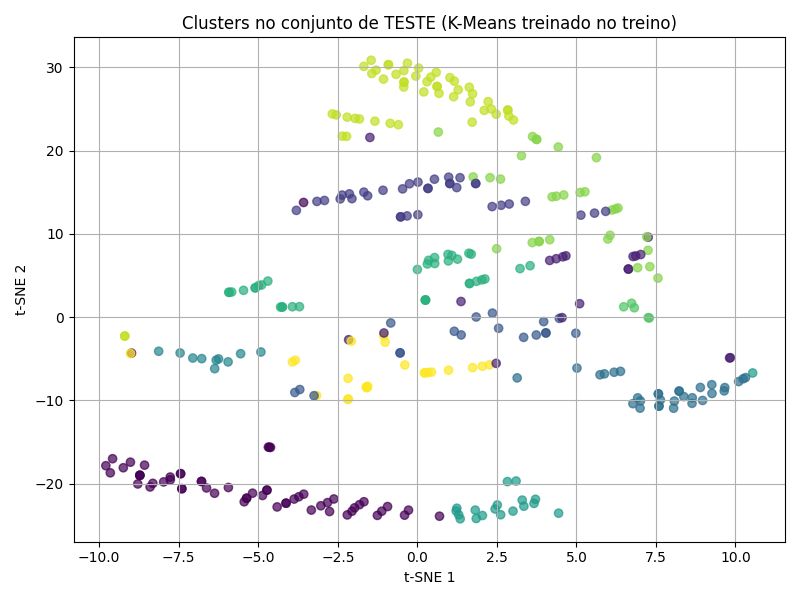
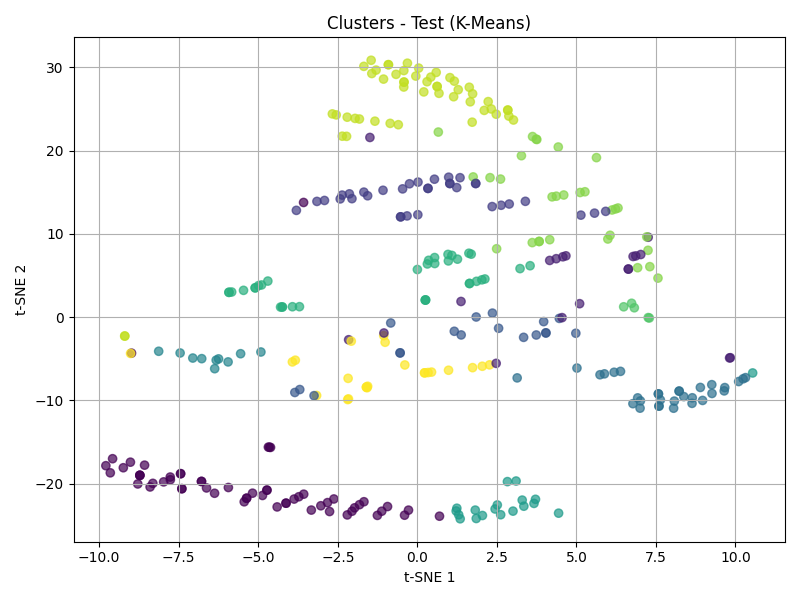
new analysis

Changed region(s): [[0.2188, 0.03, 0.8438, 0.06]]

diff --git a/Algorithms/K_means/k_means.py b/Algorithms/K_means/k_means.py
@@ -52,10 +52,10 @@ def k_means():
 
 
     plot_silhouette(X_test, cluster_labels_test, "Analysis/KMeans/silhouette_kmeans_test.png",
-                    title="Gráfico de Silhueta - Teste (K-Means)")
+                    title="Silhouette - Test (K-Means)")
 
     plot_tsne(X_test, cluster_labels_test, "Analysis/KMeans/tsne_kmeans_test.png",
-              title="Clusters no conjunto de TESTE (K-Means treinado no treino)")
+              title="Clusters - Test (K-Means)")
 
     df_test = pd.DataFrame(X_test)
     df_test['Survived'] = y_test

diff --git a/Algorithms/Dbscan/Dbscan.py b/Algorithms/Dbscan/Dbscan.py
@@ -53,10 +53,10 @@ def dbscan():
 
     # Visualizações
     plot_silhouette(X_test, cluster_labels_test, "Analysis/DBSCAN/silhouette_dbscan_test.png",
-                    title="Gráfico de Silhueta - Teste (DBSCAN)")
+                    title="Silhouette - Test (DBSCAN)")
 
     plot_tsne(X_test, cluster_labels_test, "Analysis/DBSCAN/tsne_dbscan_test.png",
-              title="Clusters no conjunto de TESTE (DBSCAN)")
+              title="Clusters - Test (DBSCAN)")
 
     df_test = pd.DataFrame(X_test)
     df_test['Survived'] = y_test

diff --git a/main.py b/main.py
@@ -4,4 +4,5 @@ from Algorithms.K_means.k_means import k_means
 from Algorithms.Dbscan.Dbscan import dbscan
 import numpy as np
 
+k_means()
 dbscan()
